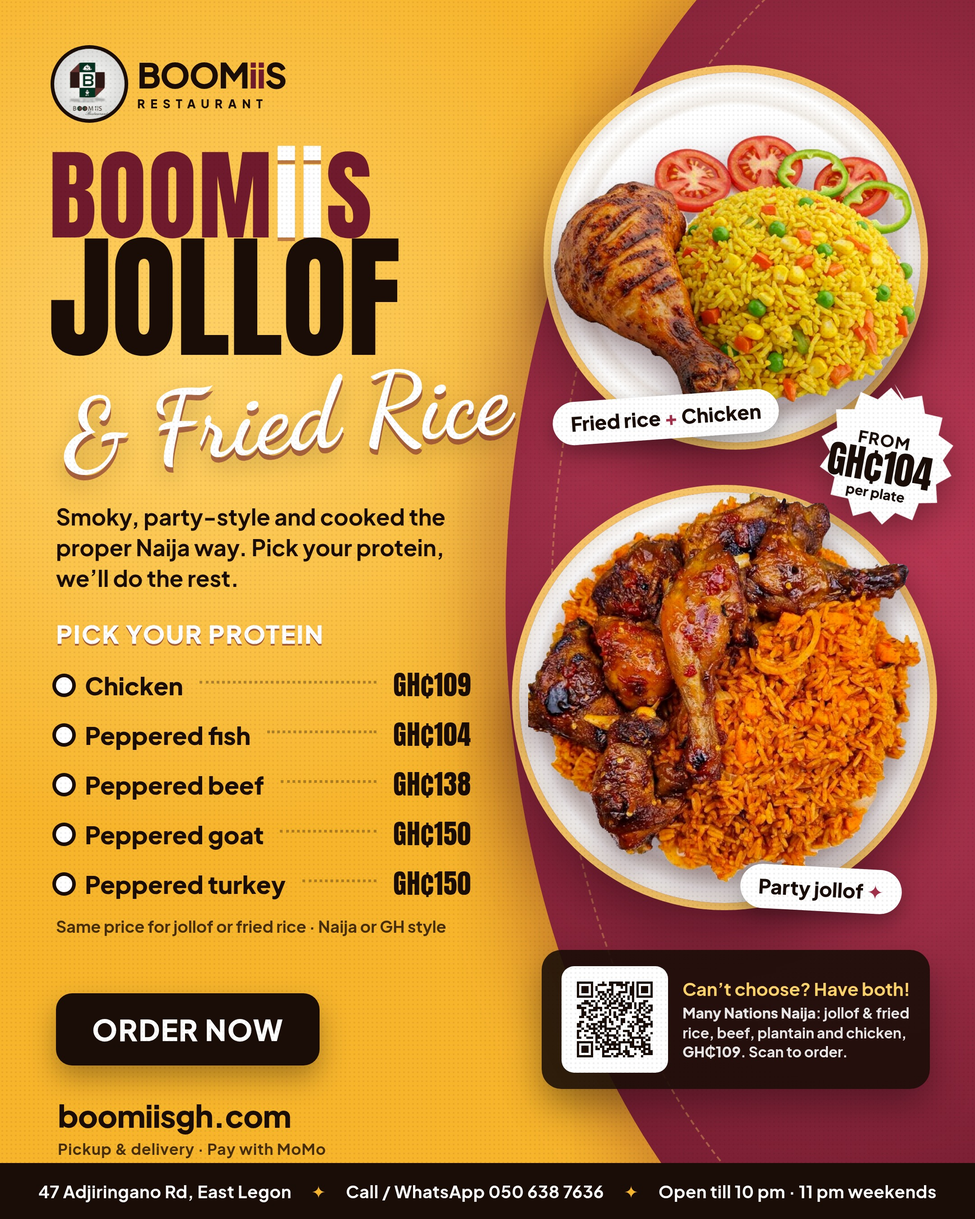
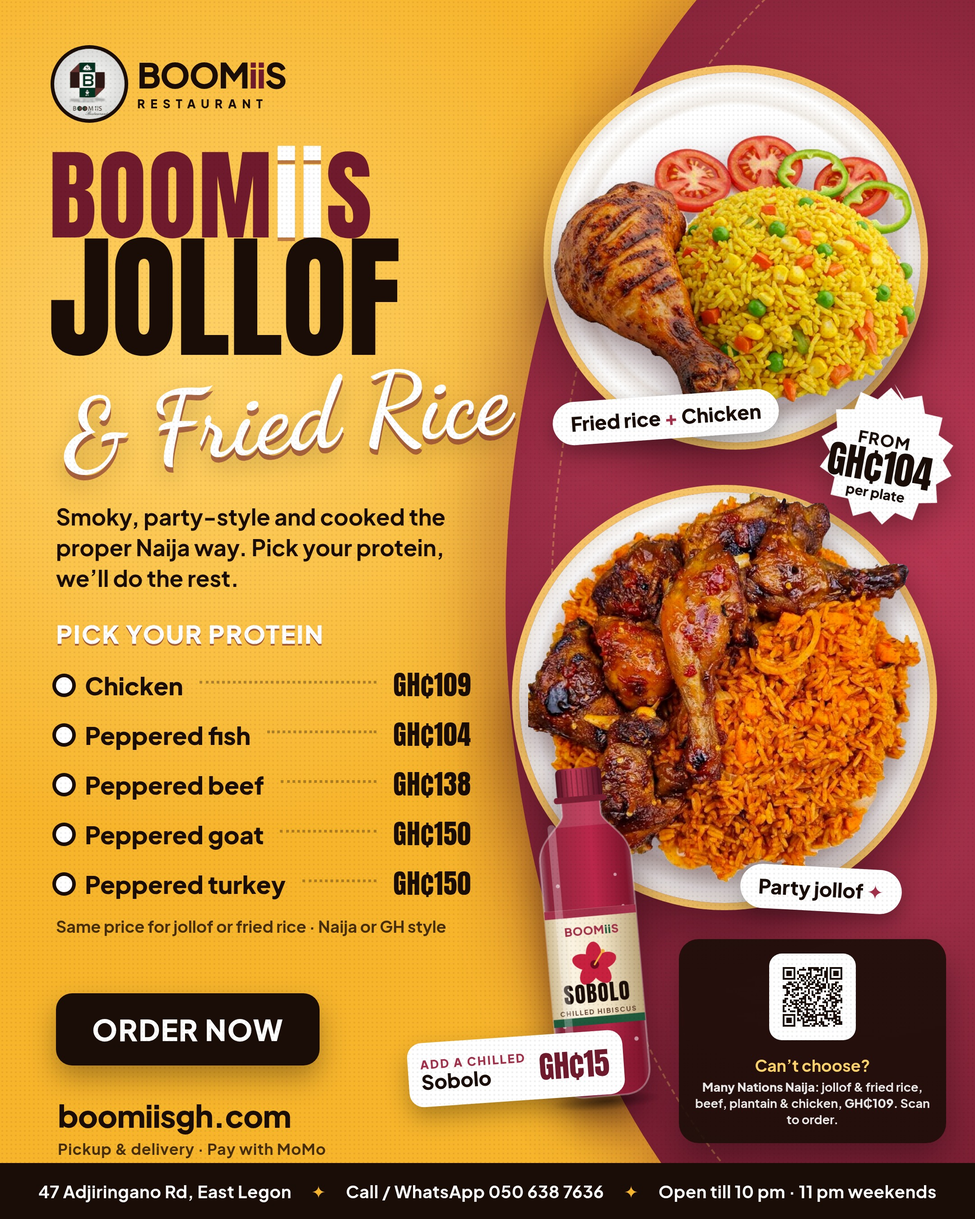
Poster: add chilled sobolo GH₵15 with BOOMiiS bottle mockup
Claude-Session: https://claude.ai/code/session_01Vo2in69Xk8axWXbahPUpEo

Changed region(s): [[0.4032, 0.6222, 0.9926, 0.9644]]

diff --git a/marketing/poster-boomiis-jollof.html b/marketing/poster-boomiis-jollof.html
@@ -62,15 +62,22 @@
   .burst em{display:block;font-style:normal;font-size:15px}
 
   /* combo card */
-  .combo{left:600px;top:1052px;width:430px;padding:18px 22px;border-radius:22px;background:rgba(26,13,8,.9);color:#fff;display:flex;gap:16px;align-items:center;box-shadow:0 18px 40px rgba(0,0,0,.35)}
-  .combo .qr{flex:none;width:118px;height:118px;padding:7px;border-radius:14px;background:#fff}
+  .combo{flex-direction:column;text-align:center;left:752px;top:1040px;width:296px;padding:16px;border-radius:22px;background:rgba(26,13,8,.9);color:#fff;display:flex;gap:16px;align-items:center;box-shadow:0 18px 40px rgba(0,0,0,.35)}
+  .combo .qr{flex:none;width:96px;height:96px;padding:7px;border-radius:14px;background:#fff}
   .combo .qr img{width:100%;height:100%;image-rendering:pixelated}
-  .combo b{display:block;font-size:20px;color:var(--gold2);white-space:nowrap}
-  .combo p{font-size:16px;font-weight:600;line-height:1.35;opacity:.9;margin-top:4px}
+  .combo b{display:block;font-size:18px;color:var(--gold2);white-space:nowrap}
+  .combo p{font-size:13.5px;font-weight:600;line-height:1.35;opacity:.9;margin-top:4px}
   .combo p strong{color:#fff;font-weight:800}
 
   .foot{left:0;right:0;bottom:0;height:62px;background:var(--ink);color:#fff;display:flex;align-items:center;justify-content:center;gap:22px;font-size:19px;font-weight:700;letter-spacing:.3px}
   .foot i{font-style:normal;color:var(--gold)}
+  /* sobolo add-on */
+  .bottle svg{display:block;width:100%;height:auto}
+  .bottle{left:578px;top:842px;width:156px;filter:drop-shadow(0 22px 22px rgba(40,6,14,.55));transform:rotate(-5deg)}
+  .sob{left:452px;top:1148px;padding:10px 16px 10px 14px;border-radius:16px;background:#fff;box-shadow:0 12px 26px rgba(0,0,0,.3);transform:rotate(-4deg);display:flex;align-items:center;gap:10px;white-space:nowrap}
+  .sob small{display:block;font-size:13px;font-weight:800;letter-spacing:1.5px;color:var(--m)}
+  .sob b{display:block;font-size:22px;font-weight:800;line-height:1.05}
+  .sob em{font-style:normal;font-family:"Anton",sans-serif;font-size:34px;color:var(--md);margin-left:4px}
 </style>
 </head>
 <body>
@@ -112,8 +119,63 @@
 
   <div class="abs combo">
     <div class="qr"><img src="qr-menu-rice.png" alt="QR code to the BOOMiiS rice menu"></div>
-    <div><b>Can’t choose? Have both!</b><p><strong>Many Nations Naija</strong>: jollof &amp; fried rice, beef, plantain and chicken, <strong>GH₵109</strong>. Scan to order.</p></div>
+    <div><b>Can’t choose?</b><p><strong>Many Nations Naija</strong>: jollof &amp; fried rice, beef, plantain &amp; chicken, <strong>GH₵109</strong>. Scan to order.</p></div>
   </div>
+
+  <div class="abs bottle" role="img" aria-label="BOOMiiS sobolo"><svg xmlns="http://www.w3.org/2000/svg" viewBox="0 0 160 400" width="100%" height="auto">
+  <!-- BOOMiiS sobolo (hibiscus drink) bottle mockup -->
+  <defs>
+    <linearGradient id="liq" x1="0" x2="1">
+      <stop offset="0" stop-color="#3d0612"/><stop offset=".28" stop-color="#8e1430"/><stop offset=".55" stop-color="#b81d42"/><stop offset=".8" stop-color="#7a0f28"/><stop offset="1" stop-color="#36050f"/>
+    </linearGradient>
+    <linearGradient id="glass" x1="0" x2="1">
+      <stop offset="0" stop-color="#fff" stop-opacity=".05"/><stop offset=".15" stop-color="#fff" stop-opacity=".55"/><stop offset=".22" stop-color="#fff" stop-opacity=".08"/><stop offset=".78" stop-color="#fff" stop-opacity=".02"/><stop offset=".86" stop-color="#fff" stop-opacity=".3"/><stop offset="1" stop-color="#fff" stop-opacity="0"/>
+    </linearGradient>
+    <linearGradient id="cap" x1="0" x2="1">
+      <stop offset="0" stop-color="#4d1020"/><stop offset=".35" stop-color="#c13a57"/><stop offset=".6" stop-color="#a3304a"/><stop offset="1" stop-color="#4d1020"/>
+    </linearGradient>
+    <linearGradient id="label" x1="0" x2="1">
+      <stop offset="0" stop-color="#cdb98f"/><stop offset=".25" stop-color="#fbf3e2"/><stop offset=".6" stop-color="#f3e6c9"/><stop offset="1" stop-color="#bba57a"/>
+    </linearGradient>
+    <clipPath id="body"><path d="M58 40h44v20c0 12 30 26 30 52v240c0 18-12 30-30 30H58c-18 0-30-12-30-30V112c0-26 30-40 30-52z"/></clipPath>
+    <radialGradient id="shadow" cx=".5" cy=".5" r=".5"><stop offset="0" stop-color="#000" stop-opacity=".45"/><stop offset="1" stop-color="#000" stop-opacity="0"/></radialGradient>
+  </defs>
+  <ellipse cx="80" cy="388" rx="62" ry="10" fill="url(#shadow)"/>
+  <!-- bottle + liquid -->
+  <g clip-path="url(#body)">
+    <rect x="0" y="40" width="160" height="360" fill="url(#liq)"/>
+    <rect x="0" y="40" width="160" height="34" fill="#fff" opacity=".12"/>
+    <!-- bubbles / condensation -->
+    <g fill="#fff" opacity=".55">
+      <circle cx="46" cy="140" r="2.2"/><circle cx="118" cy="168" r="1.6"/><circle cx="40" cy="300" r="2"/><circle cx="120" cy="320" r="2.4"/><circle cx="52" cy="330" r="1.4"/><circle cx="112" cy="132" r="1.8"/><circle cx="38" cy="220" r="1.3"/><circle cx="124" cy="250" r="1.5"/>
+    </g>
+    <rect x="0" y="40" width="160" height="360" fill="url(#glass)"/>
+  </g>
+  <path d="M58 40h44v20c0 12 30 26 30 52v240c0 18-12 30-30 30H58c-18 0-30-12-30-30V112c0-26 30-40 30-52z" fill="none" stroke="#fff" stroke-opacity=".35" stroke-width="2"/>
+  <!-- cap -->
+  <rect x="54" y="8" width="52" height="36" rx="6" fill="url(#cap)"/>
+  <g stroke="#2e0812" stroke-opacity=".35" stroke-width="1.5"><path d="M60 10v32M66 10v32M72 10v32M78 10v32M84 10v32M90 10v32M96 10v32M102 10v32"/></g>
+  <rect x="50" y="40" width="60" height="7" rx="3" fill="#7a1f33"/>
+  <!-- label -->
+  <rect x="28" y="168" width="104" height="132" fill="url(#label)"/>
+  <rect x="28" y="168" width="104" height="9" fill="#a3304a"/>
+  <rect x="28" y="291" width="104" height="9" fill="#1f5a3d"/>
+  <text x="80" y="198" text-anchor="middle" font-family="Plus Jakarta Sans, sans-serif" font-weight="800" font-size="13" fill="#a3304a" letter-spacing=".5">BOOM<tspan fill="#1f5a3d">ii</tspan>S</text>
+  <!-- hibiscus flower -->
+  <g transform="translate(80 232)">
+    <g fill="#c8203f">
+      <ellipse rx="9" ry="15" transform="rotate(0) translate(0 -11)"/><ellipse rx="9" ry="15" transform="rotate(72) translate(0 -11)"/><ellipse rx="9" ry="15" transform="rotate(144) translate(0 -11)"/><ellipse rx="9" ry="15" transform="rotate(216) translate(0 -11)"/><ellipse rx="9" ry="15" transform="rotate(288) translate(0 -11)"/>
+    </g>
+    <circle r="5" fill="#6d0a1f"/>
+    <path d="M0 0l10 -14" stroke="#f2b544" stroke-width="2" stroke-linecap="round"/><circle cx="10.5" cy="-14.5" r="2.3" fill="#f2b544"/>
+  </g>
+  <text x="80" y="275" text-anchor="middle" font-family="Anton, sans-serif" font-size="25" fill="#1a0d08" letter-spacing="1">SOBOLO</text>
+  <text x="80" y="288" text-anchor="middle" font-family="Plus Jakarta Sans, sans-serif" font-weight="700" font-size="7.5" fill="#5a3b2a" letter-spacing="1.2">CHILLED HIBISCUS</text>
+  <!-- glass highlight over label -->
+  <rect x="40" y="70" width="9" height="290" rx="4.5" fill="#fff" opacity=".28"/>
+</svg>
+</div>
+  <div class="abs sob"><div><small>ADD A CHILLED</small><b>Sobolo</b></div><em>GH₵15</em></div>
 
   <div class="abs foot">47 Adjiringano Rd, East Legon <i>✦</i> Call / WhatsApp 050 638 7636 <i>✦</i> Open till 10 pm · 11 pm weekends</div>
   <div class="abs grain"></div>
